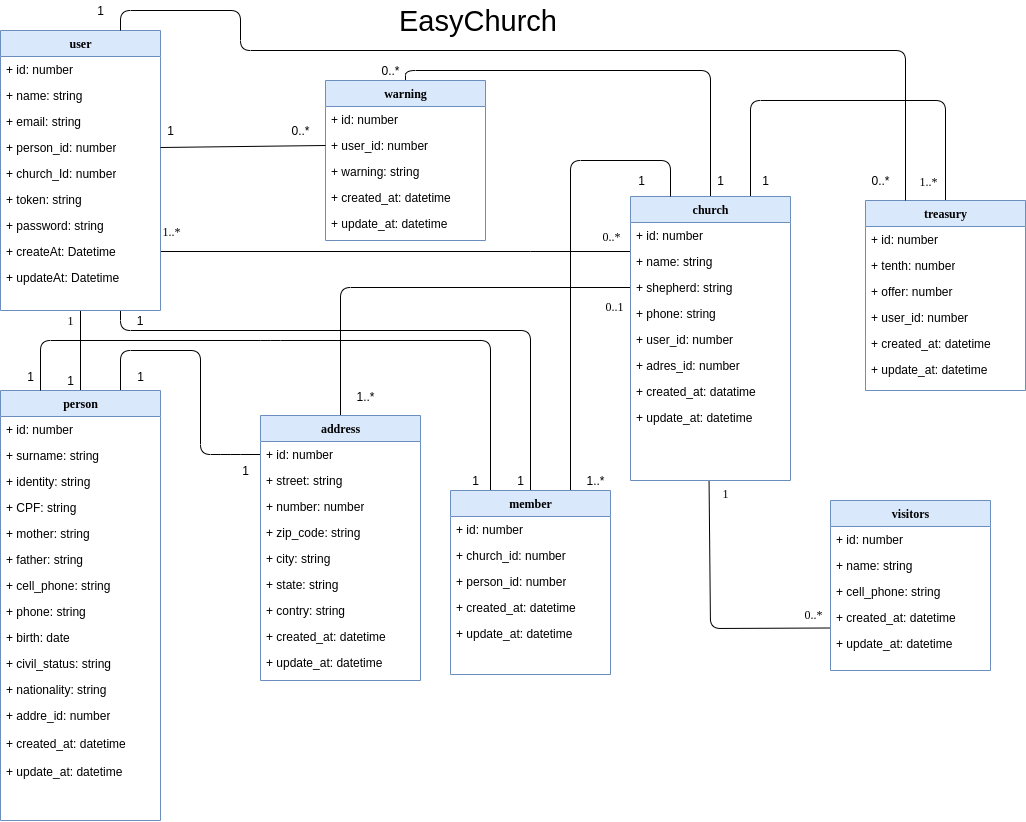
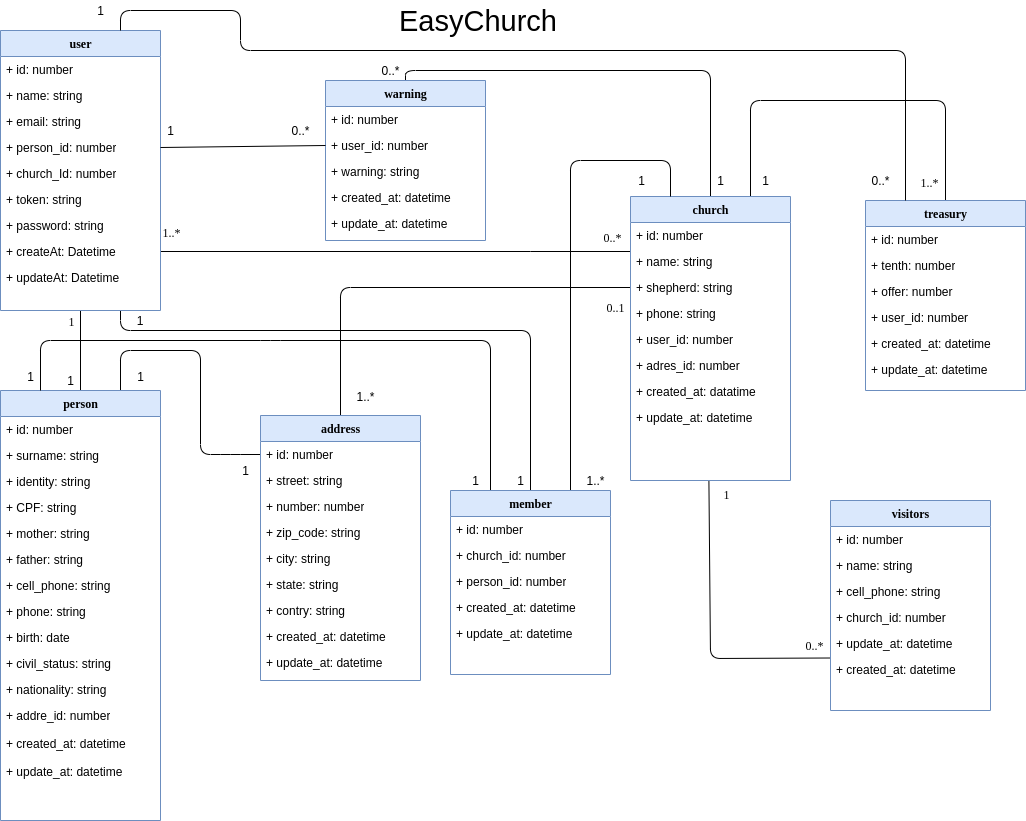
feat(visitors): added column visitors in database

diff --git a/database/migrations/1604345646954_visitors.ts b/database/migrations/1604345646954_visitors.ts
@@ -1,0 +1,19 @@
+import BaseSchema from '@ioc:Adonis/Lucid/Schema'
+
+export default class Visitors extends BaseSchema {
+  protected tableName = 'visitors'
+
+  public async up() {
+    this.schema.createTable(this.tableName, (table) => {
+      table.increments('id').primary()
+      table.string('name', 30).notNullable()
+      table.string('cell_phone', 15)
+      table.integer('church_id')
+      table.timestamps(true)
+    })
+  }
+
+  public async down() {
+    this.schema.dropTable(this.tableName)
+  }
+}
